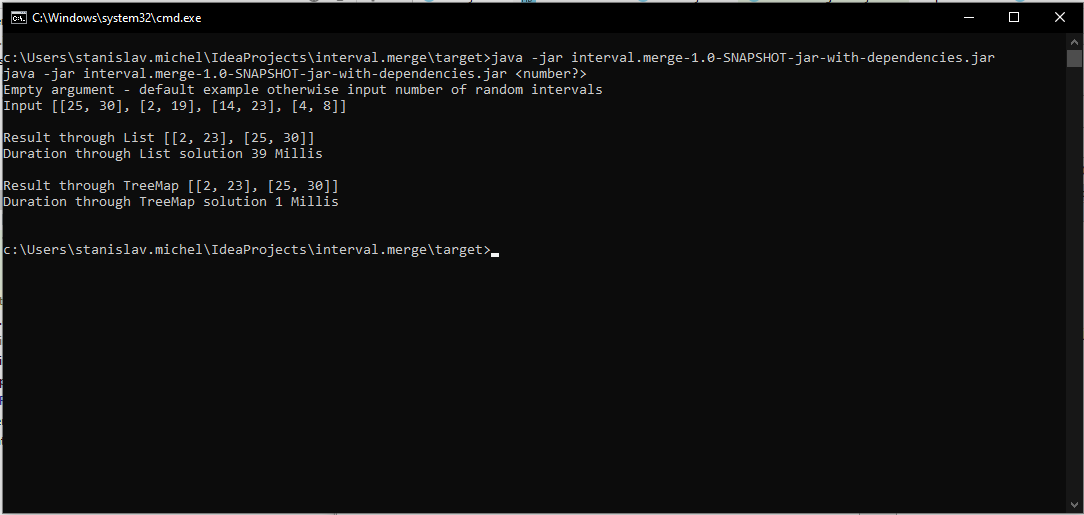
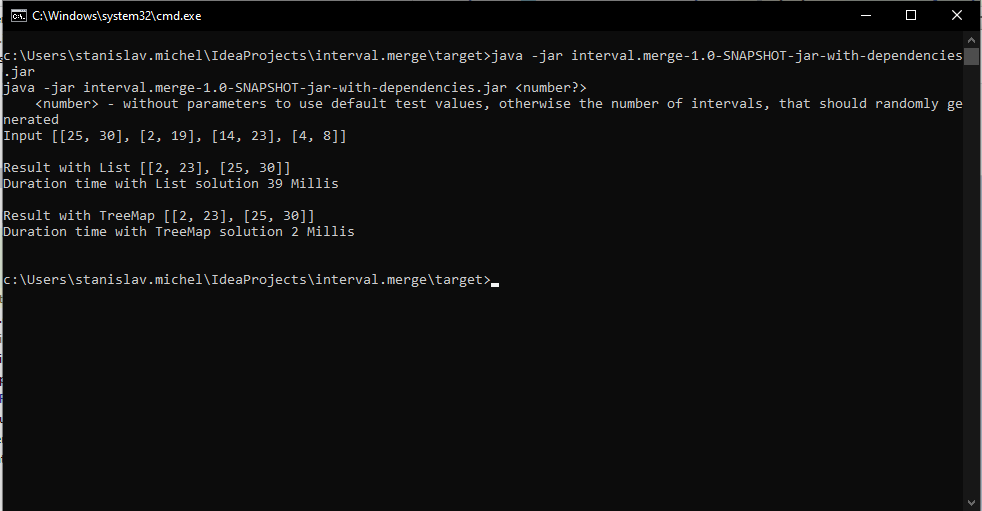
add exception if startPoint bigger than endPoint update readme

diff --git a/src/main/java/de/code/example/Main.java b/src/main/java/de/code/example/Main.java
@@ -12,9 +12,9 @@ import java.util.*;
  */
 public class Main {
 
-    public static void main(String[] args) {
+    public static void main(String[] args) throws Exception {
         System.out.println("java -jar interval.merge-1.0-SNAPSHOT-jar-with-dependencies.jar <number?>");
-        System.out.println("Empty argument - default example otherwise input number of random intervals");
+        System.out.println("    <number> - without parameters to use default test values, otherwise the number of intervals, that should randomly generated");
         if (args.length == 0) {
             //Default example
             List intervalList = new ArrayList<Interval>();
@@ -26,11 +26,13 @@ public class Main {
         } else {
             try {
                 int numberOfIntervals = Integer.parseInt(args[0]);
-                if (numberOfIntervals > 0)
+                if (numberOfIntervals > 0) {
                     merge(getRandomIntervalList(numberOfIntervals));
-                else System.out.println("Allow only positive number");
+                } else {
+                    System.out.println("Allow only positive integer");
+                }
             } catch (NumberFormatException e) {
-                throw new NumberFormatException("Input is not number!");
+                throw new NumberFormatException("Input is not integer!");
             }
         }
 
@@ -41,17 +43,22 @@ public class Main {
      *
      * @param intervalList
      */
-    public static void merge(List intervalList) {
+    public static void merge(List intervalList) throws Exception {
         long start = System.currentTimeMillis();
         printList(intervalList, "Input " + intervalList + "\n");
+
         IntervalMerger intervalMerger = new IntervalMerger();
         List<Interval> resultList = intervalMerger.mergeList(intervalList);
-        printList(resultList, "Result through List " + resultList);
-        System.out.println("Duration through List solution " + (System.currentTimeMillis() - start) + " Millis\n");
+        printList(resultList, "Result with List " + resultList);
+
+        System.out.println("Duration time with List solution " + (System.currentTimeMillis() - start) + " Millis\n");
+
         start = System.currentTimeMillis();
+
         resultList = intervalMerger.mergeTreeMap(intervalList);
-        printList(resultList, "Result through TreeMap " + resultList);
-        System.out.println("Duration through TreeMap solution " + (System.currentTimeMillis() - start) + " Millis\n");
+
+        printList(resultList, "Result with TreeMap " + resultList);
+        System.out.println("Duration time with TreeMap solution " + (System.currentTimeMillis() - start) + " Millis\n");
     }
 
     /**
@@ -71,7 +78,7 @@ public class Main {
      * @param numberOfIntervals - number of intervals
      * @return List of random generated intervals
      */
-    public static List<Interval> getRandomIntervalList(int numberOfIntervals) {
+    public static List<Interval> getRandomIntervalList(int numberOfIntervals) throws Exception {
         Map<Integer, Integer> intervalMap = new TreeMap<>();
         //Create TreeMap with unique key
         for (int i = 0; i < numberOfIntervals; i++) {

diff --git a/src/test/java/de/code/example/IntervalMergerTest.java b/src/test/java/de/code/example/IntervalMergerTest.java
@@ -15,31 +15,34 @@ public class IntervalMergerTest {
             new Interval(14, 23),
             new Interval(4, 8));
 
+    public IntervalMergerTest() throws Exception {
+    }
+
     @Test
-    public void testTreeMap() {
+    public void testTreeMap() throws Exception {
         assertNotEquals(intervalList, new IntervalMerger().mergeTreeMap(intervalList));
     }
 
     @Test
-    public void testList() {
+    public void testList() throws Exception {
         assertNotEquals(intervalList, new IntervalMerger().mergeList(intervalList));
     }
 
     @Test
-    public void testListWithTreeMap() {
+    public void testListWithTreeMap() throws Exception {
         assertEquals(new IntervalMerger().mergeList(intervalList), new IntervalMerger().mergeTreeMap(intervalList));
     }
 
     @Test
-    public void testDurationExecutionTimeForListAndTreeMap() {
+    public void testDurationExecutionTimeForListAndTreeMap() throws Exception {
         long start = System.currentTimeMillis();
         System.out.println("Input " + intervalList + "\n");
         IntervalMerger intervalMerger = new IntervalMerger();
-        System.out.println("Result through List " + intervalMerger.mergeList(intervalList));
-        System.out.println("Duration through List solution " + (System.currentTimeMillis() - start) + " Millis\n");
+        System.out.println("Result with List " + intervalMerger.mergeList(intervalList));
+        System.out.println("Duration time with List solution " + (System.currentTimeMillis() - start) + " Millis\n");
         start = System.currentTimeMillis();
-        System.out.println("Result through TreeMap " + intervalMerger.mergeTreeMap(intervalList));
-        System.out.println("Duration through TreeMap solution " + (System.currentTimeMillis() - start) + " Millis\n");
+        System.out.println("Result time with TreeMap " + intervalMerger.mergeTreeMap(intervalList));
+        System.out.println("Duration time with TreeMap solution " + (System.currentTimeMillis() - start) + " Millis\n");
     }
 
 }

diff --git a/src/main/java/de/code/example/IntervalMerger.java b/src/main/java/de/code/example/IntervalMerger.java
@@ -22,7 +22,7 @@ public class IntervalMerger {
      * @param intervalList - input List of intervals
      * @return resultIntervalList - List overlapping intervals
      */
-    public List<Interval> mergeList(List<Interval> intervalList) {
+    public List<Interval> mergeList(List<Interval> intervalList) throws Exception {
 
         List<Interval> resultIntervalList = new ArrayList<>();
 
@@ -64,7 +64,7 @@ public class IntervalMerger {
      * @param intervalList - input List of intervals
      * @return resultIntervalList - List of overlapping intervals
      */
-    public List<Interval> mergeTreeMap(List<Interval> intervalList) {
+    public List<Interval> mergeTreeMap(List<Interval> intervalList) throws Exception {
         List<Interval> resultIntervalList = new ArrayList<>();
 
         TreeMap<Integer, Integer> intervalMap = new TreeMap<>();
@@ -97,6 +97,4 @@ public class IntervalMerger {
 
         return resultIntervalList;
     }
-
-
 }

diff --git a/src/main/java/de/code/example/object/Interval.java b/src/main/java/de/code/example/object/Interval.java
@@ -21,11 +21,15 @@ public class Interval {
 
     /**
      * @param startPoint to set
-     * @param endPoint to set
+     * @param endPoint   to set
      */
-    public Interval(int startPoint, int endPoint) {
-        this.startPoint = startPoint;
-        this.endPoint = endPoint;
+    public Interval(int startPoint, int endPoint) throws Exception {
+        if (endPoint < startPoint) {
+            throw new Exception("End point is bigger than start point!");
+        } else {
+            this.startPoint = startPoint;
+            this.endPoint = endPoint;
+        }
     }
 
     /**

diff --git a/README.md b/README.md
@@ -11,36 +11,35 @@
 
 Or clone repository in IntelliJ and run Main class or IntervalMergerTest test class.
 
+**Test**
+To run the Unit Test ```mvn clean package -f pom.xml```.
 
 **Usage**: Jar execute in target folder  
 * ```java -jar interval.merge-1.0-SNAPSHOT-jar-with-dependencies.jar <number parameter>```
-  - ```number parameter - number of random generated intervals or empty number```
+  - ```number parameter - number of random generated intervals or without parameters to use default test values (see Main class)```
+  
+**Output screenshot:**
   ![](usage.png)
 
 **Fragen**
 1. Laufzeit:  
-Lösung 1 benutzt List mit Methode Collection.sort (merge sort) und hat die Komplexität für Collections.sort ```O(n*log(n)) + FOR Schleife O(n), also O(n*log(n))+O(n)```  
-Lösung 2 funktioniert mit TreeMap (red-black tree) hat die Komplexität beim Einfügen in TreeMap ```O(log(n)) + O(n)``` in FOR Schleife
+Lösung 1 benutzt eine Liste mit der Methode Collections.sort (merge sort) und hat die Komplexität für Collections.sort ```O(n*log(n))``` und anschlißend für die FOR Schleife - ```O(n)```, also ```O(n*log(n))+O(n)```  
+Lösung 2 funktioniert mit TreeMap (red-black tree) und hat die Komplexität beim Einfügen in TreeMap ```O(log(n)) + O(n)``` (inklusive FOR Schleife).
 
-2. Robustheit:  
-Die Robustheit hängt von Größe der Eingabe und von ausgewählter Datenstruktur ab. 
-TreeMap basiert auf red-black tree. Es werden Duplikate nicht gespeichert und die Schlüssel werden bei Insert schon aufsteigend sortiert, so dass man die Sort Methode spart.
-Die zweite Lösung ist schneller.
+TreeMap basiert auf red-black tree. Es werden Duplikate nicht gespeichert und die Schlüssel werden beim Insert bereits aufsteigend sortiert. Somit wird die Zeit für Sortierung gespart.
+Aus diesem Grund ist die Laufzeit zweiter Lösung optimaler.
 
-3. Speicherverbrauch:  
-Bei Steigerung der Interval Anzahl verlangsammt die Laufzeit und vergrößert sich Arbeitspeicher.
-Merge von 10 Millionen Datensätzen verursachen durch List Lösung die CPU Auslastung und es wird mehr Arbeitspeicher verbraucht. 
-  ![](speicher.png)
+2. Robustheit und Speicherverbrauch:  
+Die Robustheit wird durch typisierte Eingangsparameter und optimaler Datenverarbeitung gewährleistet.
+Der Speicherverbrauch hängt von der Größe der Eingabe und ausgewählter Datenstruktur ab. 
+Die Speicher- und Prozessorauslastung bei 10 Millionen Intervallen ist auf folgendem Beispiel dargestellt.
 
 4. Test Ergebnisse  
 
 | Interval Eingabe | List Lösung Dauer| TreeMap Lösung Dauer|
 | --- | ------------- | ------------- |
 | aus dem Beispiel| 35ms  | 2ms  |
-| 100 zufällig generierte Intervalle | 36ms  | 2ms  |
 | 1000 zufällig generierte Intervalle | 38ms  | 2ms  |
-| 10.000 zufällig generierte Intervalle | 60ms  | 6ms  |
 | 100.000 zufällig generierte Intervalle | 145ms  | 117ms  |
-| 1.000.000 zufällig generierte Intervalle | 2301ms  | 650ms  |
 | 10.000.000 zufällig generierte Intervalle | 599207ms  | 7277ms  |
 
